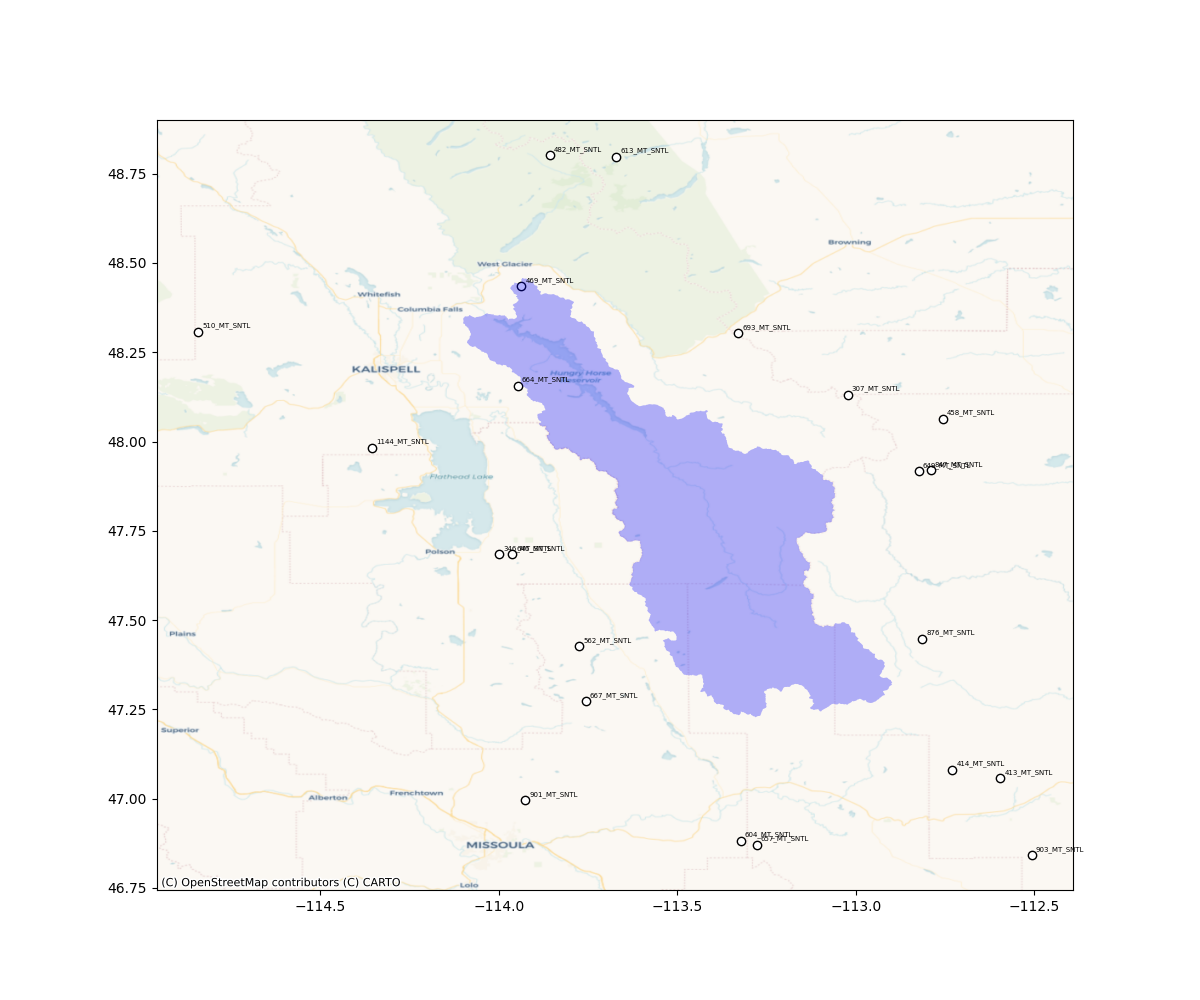
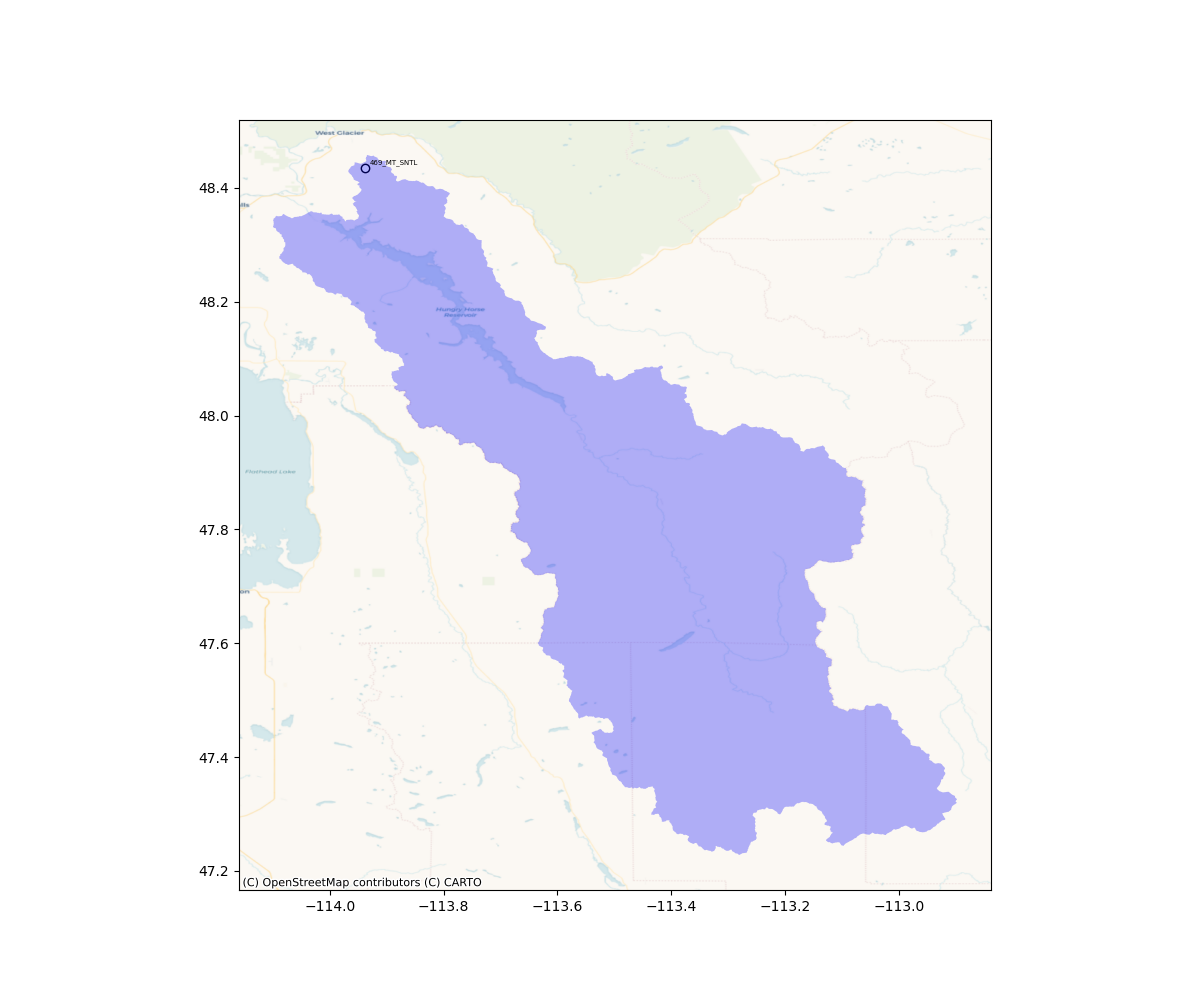
finish snotel model implementation

diff --git a/wasu/development/models/snotel.py b/wasu/development/models/snotel.py
@@ -4,9 +4,10 @@ import numpy as np
 import pandas as pd
 from loguru import logger
 from matplotlib import pyplot as plt
+from pandas import Timestamp
 from sklearn.ensemble import RandomForestRegressor
 
-from wasu.development.data import collect_usgs_streamflow_time_series_for_site
+from wasu.development.data import collect_usgs_streamflow_time_series_for_site, collect_snotel_data_for_site
 from wasu.development.models.date_utils import generate_datetime_into_julian, get_julian_date_from_datetime
 from wasu.development.models.repeating import AdvancedRepeatingTrainModel
 from wasu.development.models.train_model import TrainModel
@@ -23,7 +24,14 @@ class SnotelFlowRegression(TrainModel):
         self.above_ratio = 0.3
         # One month
         self.aggregation_days = 180
-        self.features_columns = ['mean_value', 'sum_value', 'min_value', 'max_value']
+        self.features_columns = ['mean_PREC_DAILY', 'mean_TAVG_DAILY', 'mean_TMAX_DAILY', 'mean_TMIN_DAILY',
+                                 'mean_WTEQ_DAILY',
+                                 'sum_PREC_DAILY', 'sum_TAVG_DAILY', 'sum_TMAX_DAILY', 'sum_TMIN_DAILY',
+                                 'sum_WTEQ_DAILY',
+                                 'max_PREC_DAILY', 'max_TAVG_DAILY', 'max_TMAX_DAILY', 'max_TMIN_DAILY',
+                                 'max_WTEQ_DAILY',
+                                 'min_PREC_DAILY', 'min_TAVG_DAILY', 'min_TMAX_DAILY', 'min_TMIN_DAILY',
+                                 'min_WTEQ_DAILY']
 
         self.statistics = []
         self.vis = False
@@ -32,7 +40,7 @@ class SnotelFlowRegression(TrainModel):
         self.train_df = self.train_df.dropna()
 
         metadata: pd.DataFrame = kwargs['metadata']
-        path_to_streamflow: Path = kwargs['path_to_streamflow']
+        path_to_snotel: Path = kwargs['path_to_snotel']
         self.vis: bool = kwargs.get('vis')
         if self.vis is None:
             self.vis = False
@@ -40,13 +48,14 @@ class SnotelFlowRegression(TrainModel):
         df_to_send = []
         # For every site
         for site in list(submission_format['site_id'].unique()):
-            streamflow_df = collect_usgs_streamflow_time_series_for_site(path_to_streamflow, site)
+            snotel_df = collect_snotel_data_for_site(path_to_snotel, site, collect_only_in_basin=True)
+
             submission_site = submission_format[submission_format['site_id'] == site]
             site_df = self.train_df[self.train_df['site_id'] == site]
             site_df = site_df.sort_values(by='year')
 
-            if streamflow_df is None or len(streamflow_df) < 1:
-                logger.warning(f'Can not obtain streamflow data for site {site}. Apply Advanced repeating')
+            if snotel_df is None or len(snotel_df) < 1:
+                logger.warning(f'Can not obtain SNOTEL data for site {site}. Apply Advanced repeating')
                 submit = self.backup_model.generate_forecasts_for_site(historical_values=site_df,
                                                                        submission_site=submission_site)
                 df_to_send.append(submit)
@@ -62,8 +71,9 @@ class SnotelFlowRegression(TrainModel):
 
             try:
                 submit = self._generate_forecasts_for_site(historical_values=site_df,
-                                                           streamflow_df=streamflow_df,
-                                                           submission_site=submission_site)
+                                                           snotel_df=snotel_df,
+                                                           submission_site=submission_site,
+                                                           site_id=site)
                 df_to_send.append(submit)
                 self.statistics.append([site, 'streamflow model'])
             except Exception as ex:
@@ -80,9 +90,9 @@ class SnotelFlowRegression(TrainModel):
         return df_to_send
 
     def _generate_forecasts_for_site(self, historical_values: pd.DataFrame,
-                                     streamflow_df: pd.DataFrame, submission_site: pd.DataFrame):
-        streamflow_df = generate_datetime_into_julian(dataframe=streamflow_df, datetime_column='datetime',
-                                                      julian_column='julian_datetime', round_julian=3)
+                                     snotel_df: pd.DataFrame, submission_site: pd.DataFrame, site_id: str):
+        snotel_df = generate_datetime_into_julian(dataframe=snotel_df, datetime_column='date',
+                                                  julian_column='julian_datetime', round_julian=3)
 
         submit = []
         for row_id, row in submission_site.iterrows():
@@ -98,21 +108,24 @@ class SnotelFlowRegression(TrainModel):
 
             # Volume from the previous year
             known_historical_values = historical_values[historical_values['year'] < issue_date]
-            known_streamflow_values = streamflow_df[streamflow_df['julian_datetime'] < issue_date_julian]
+            known_snotel_values = snotel_df[snotel_df['julian_datetime'] < issue_date_julian]
+            known_snotel_values = known_snotel_values[['PREC_DAILY', 'TAVG_DAILY', 'TMAX_DAILY',
+                                                       'TMIN_DAILY', 'WTEQ_DAILY', 'date', 'julian_datetime']]
 
             # Add information about year in the dataframe
-            known_streamflow_values['year'] = known_streamflow_values['datetime'].dt.year
+            known_snotel_values['year'] = known_snotel_values['date'].dt.year
             known_historical_values['year_number'] = known_historical_values['year'].dt.year
 
             # Fit model
             model, min_target, max_target = self._fit_model_based_on_historical_data(known_historical_values=known_historical_values,
-                                                                                     known_streamflow_values=known_streamflow_values,
-                                                                                     issue_date=issue_date)
+                                                                                     known_snotel_values=known_snotel_values,
+                                                                                     issue_date=issue_date,
+                                                                                     site_id=site_id)
 
             # Generate forecast
-            agg_streamflow = known_streamflow_values[known_streamflow_values['julian_datetime'] >= issue_date_agg_start_julian]
-            agg_streamflow = agg_streamflow[agg_streamflow['julian_datetime'] < issue_date_julian]
-            dataset = self.__aggregate_features(agg_streamflow)
+            agg_snotel = known_snotel_values[known_snotel_values['julian_datetime'] >= issue_date_agg_start_julian]
+            agg_snotel = agg_snotel[agg_snotel['julian_datetime'] < issue_date_julian]
+            dataset = self.__aggregate_features(agg_snotel)
 
             predicted = model.predict(dataset[self.features_columns])[0]
 
@@ -130,3 +143,61 @@ class SnotelFlowRegression(TrainModel):
 
         submit = pd.concat(submit)
         return submit
+
+    def _fit_model_based_on_historical_data(self, known_historical_values: pd.DataFrame,
+                                            known_snotel_values: pd.DataFrame,
+                                            issue_date: Timestamp,
+                                            site_id: str):
+
+        dataframe_for_model_fitting = []
+        for historical_year in list(known_historical_values['year'].dt.year):
+            # For each year in the past collect data for model fitting
+            if historical_year not in list(known_snotel_values['year'].unique()):
+                continue
+            # One year in advance for aggregation
+            if historical_year - 1 not in list(known_snotel_values['year'].unique()):
+                continue
+
+            # Find that day in the past (and min and max borders for data aggregation)
+            years_offset = issue_date.year - historical_year
+            aggregation_end_julian = get_julian_date_from_datetime(current_date=issue_date, offset_years=years_offset)
+            aggregation_start_julian = get_julian_date_from_datetime(current_date=issue_date, offset_years=years_offset,
+                                                                     offset_days=self.aggregation_days)
+
+            agg_snotel = known_snotel_values[known_snotel_values['julian_datetime'] >= aggregation_start_julian]
+            agg_snotel = agg_snotel[agg_snotel['julian_datetime'] < aggregation_end_julian]
+
+            dataset = self.__aggregate_features(agg_snotel)
+
+            # Add target (for prediction)
+            historical_data_for_year = known_historical_values[known_historical_values['year_number'] == historical_year]
+            target = historical_data_for_year['volume'].values[0]
+
+            dataset['historical_year'] = historical_year
+            dataset['target'] = target
+            dataframe_for_model_fitting.append(dataset)
+
+        dataframe_for_model_fitting = pd.concat(dataframe_for_model_fitting)
+        dataframe_for_model_fitting = dataframe_for_model_fitting.dropna()
+
+        reg = RandomForestRegressor(n_estimators=20)
+        reg.fit(dataframe_for_model_fitting[self.features_columns], dataframe_for_model_fitting['target'])
+        min_target, max_target = min(dataframe_for_model_fitting['target']), max(dataframe_for_model_fitting['target'])
+        return reg, min_target, max_target
+
+    @staticmethod
+    def __aggregate_features(agg_snotel: pd.DataFrame):
+        # Collect statistics
+        dataset = pd.DataFrame()
+        for feature in ['PREC_DAILY', 'TAVG_DAILY', 'TMAX_DAILY', 'TMIN_DAILY', 'WTEQ_DAILY']:
+            mean_value = agg_snotel[feature].mean()
+            sum_value = agg_snotel[feature].sum()
+            min_value = agg_snotel[feature].min()
+            max_value = agg_snotel[feature].max()
+
+            dataset[f'mean_{feature}'] = [mean_value]
+            dataset[f'sum_{feature}'] = [sum_value]
+            dataset[f'min_{feature}'] = [min_value]
+            dataset[f'max_{feature}'] = [max_value]
+
+        return dataset

diff --git a/examples/4_snotel/predict_based_on_snotel.py b/examples/4_snotel/predict_based_on_snotel.py
@@ -1,0 +1,32 @@
+from pathlib import Path
+
+import warnings
+
+import pandas as pd
+
+from wasu.development.models.snotel import SnotelFlowRegression
+from wasu.development.models.streamflow import StreamFlowRegression
+from wasu.development.vis.visualization import TimeSeriesPlot
+
+warnings.filterwarnings('ignore')
+
+
+def generate_forecast_based_on_snotel():
+    train_df = pd.read_csv(Path('../../data/train.csv'), parse_dates=['year'])
+    submission_format = pd.read_csv(Path('../../data/submission_format.csv'), parse_dates=['issue_date'])
+
+    # Load dataframe with metadata
+    metadata = pd.read_csv(Path('../../data/metadata_TdPVeJC.csv'))
+    path_to_snotel = Path('../../data/snotel').resolve()
+
+    model = SnotelFlowRegression(train_df=train_df)
+    predicted = model.predict(submission_format, metadata=metadata, path_to_snotel=path_to_snotel, vis=True)
+
+    # Save into file
+    model.save_predictions_as_submit(predicted, path='./results/snotel_03_12_2023.csv')
+
+    TimeSeriesPlot().predicted_time_series(predicted, plots_folder_name='predictions_snotel')
+
+
+if __name__ == '__main__':
+    generate_forecast_based_on_snotel()

diff --git a/wasu/development/data.py b/wasu/development/data.py
@@ -29,7 +29,7 @@ def collect_usgs_streamflow_time_series_for_site(path_to_folder: Path, site_id: 
     return site_df
 
 
-def collect_snotel_data_for_site(path_to_folder: Path, site_id: str):
+def collect_snotel_data_for_site(path_to_folder: Path, site_id: str, collect_only_in_basin: bool = False):
     """ Load SNOTEL data from separate files
 
     Collect data from all station for historical years merged with data
@@ -46,6 +46,12 @@ def collect_snotel_data_for_site(path_to_folder: Path, site_id: str):
     if len(site_snotel) < 1:
         logger.warning(f'Cannot process SNOTEL files for site {site_id} due to there are no stations related to site')
         return None
+    if collect_only_in_basin is True:
+        site_snotel = site_snotel[site_snotel['in_basin'] == True]
+
+        if len(site_snotel) < 1:
+            logger.warning(f'Cannot process SNOTEL files for site {site_id} because there is no stations in the extend')
+            return None
 
     stations_ids = list(site_snotel['stationTriplet'].unique())
     stations_ids = [station.replace(':', '_') for station in stations_ids]

diff --git a/examples/4_snotel/spatial_visualization.py b/examples/4_snotel/spatial_visualization.py
@@ -25,7 +25,8 @@ def show_spatial_plot():
     for row_id, spatial_object in spatial_objects.iterrows():
         site_id = spatial_object.site_id
         spatial_df = GeoDataFrame(crs="EPSG:4326", geometry=[spatial_object.geometry])
-        df = collect_snotel_data_for_site(path_to_folder=Path('../../data/snotel'), site_id=site_id)
+        df = collect_snotel_data_for_site(path_to_folder=Path('../../data/snotel'), site_id=site_id,
+                                          collect_only_in_basin=True)
         df = df[['station', 'latitude', 'longitude']].drop_duplicates()
 
         df = prepare_points_layer(df)

diff --git a/README.md b/README.md
@@ -39,6 +39,14 @@ desired issue date
 
 ### SNOTEL-based predictions
 
+Key features description: 
+
+- `PREC_DAILY` - precipitation
+- `TAVG_DAILY` - average daily temperature
+- `TMAX_DAILY` - max temperature
+- `TMIN_DAILY` - min temperature
+- `WTEQ_DAILY` - snow water equivalent	
+
 ![spatial_extend_snotel_fontenelle_reservoir_inflow.png](examples%2Fplots%2Fspatial_with_snotel_stations%2Fspatial_extend_snotel_fontenelle_reservoir_inflow.png)
 
 Figure. SNOTEL stations and basin of `fontenelle_reservoir_inflow` site
